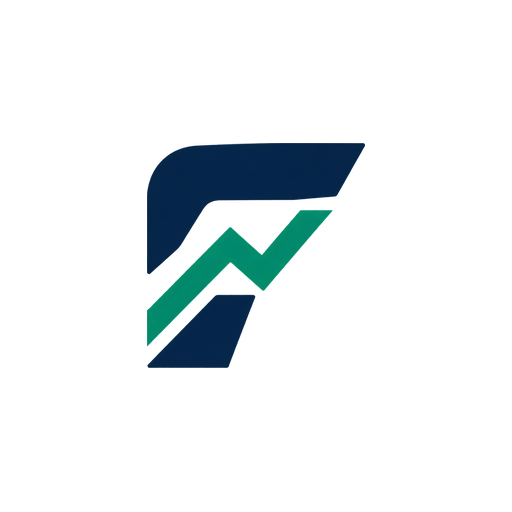
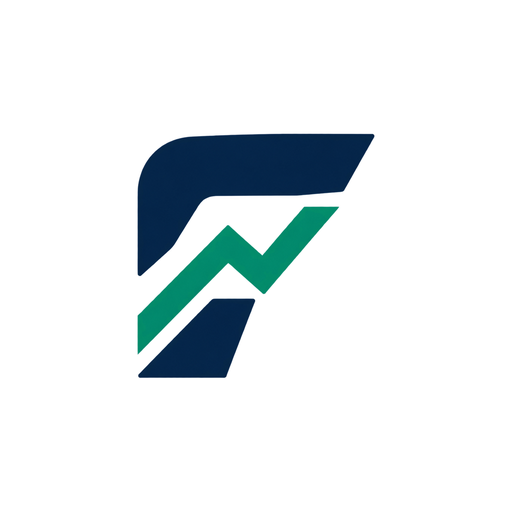
Demo pública: ícono nuevo

diff --git a/docs/demo_panel/acceso.html b/docs/demo_panel/acceso.html
@@ -4,10 +4,10 @@
 <meta charset="utf-8"><meta name="viewport" content="width=device-width, initial-scale=1, maximum-scale=1, user-scalable=no, viewport-fit=cover">
 <title>Finmate — Entrar · Finmate (prueba)</title>
 
-<link rel="icon" type="image/png" sizes="32x32" href="favicon-32.png?v=3">
-<link rel="icon" type="image/png" sizes="48x48" href="favicon-48.png?v=3">
-<link rel="apple-touch-icon" sizes="180x180" href="apple-touch-icon.png?v=3">
-<link rel="manifest" href="manifest.json?v=3">
+<link rel="icon" type="image/png" sizes="32x32" href="favicon-32.png?v=4">
+<link rel="icon" type="image/png" sizes="48x48" href="favicon-48.png?v=4">
+<link rel="apple-touch-icon" sizes="180x180" href="apple-touch-icon.png?v=4">
+<link rel="manifest" href="manifest.json?v=4">
 <meta name="apple-mobile-web-app-title" content="Finmate">
 <meta name="application-name" content="Finmate">
 <meta name="apple-mobile-web-app-capable" content="yes">

diff --git a/docs/demo_panel/ajustes.html b/docs/demo_panel/ajustes.html
@@ -5,10 +5,10 @@
 <meta name="viewport" content="width=device-width, initial-scale=1, maximum-scale=1, user-scalable=no, viewport-fit=cover">
 <title>Finmate — Ajustes y personalidad · Finmate (prueba)</title>
 
-<link rel="icon" type="image/png" sizes="32x32" href="favicon-32.png?v=3">
-<link rel="icon" type="image/png" sizes="48x48" href="favicon-48.png?v=3">
-<link rel="apple-touch-icon" sizes="180x180" href="apple-touch-icon.png?v=3">
-<link rel="manifest" href="manifest.json?v=3">
+<link rel="icon" type="image/png" sizes="32x32" href="favicon-32.png?v=4">
+<link rel="icon" type="image/png" sizes="48x48" href="favicon-48.png?v=4">
+<link rel="apple-touch-icon" sizes="180x180" href="apple-touch-icon.png?v=4">
+<link rel="manifest" href="manifest.json?v=4">
 <meta name="apple-mobile-web-app-title" content="Finmate">
 <meta name="application-name" content="Finmate">
 <meta name="apple-mobile-web-app-capable" content="yes">

diff --git a/docs/demo_panel/inversiones.html b/docs/demo_panel/inversiones.html
@@ -5,10 +5,10 @@
 <meta name="viewport" content="width=device-width, initial-scale=1, maximum-scale=1, user-scalable=no, viewport-fit=cover">
 <title>Finmate — Mis inversiones · Finmate (prueba)</title>
 
-<link rel="icon" type="image/png" sizes="32x32" href="favicon-32.png?v=3">
-<link rel="icon" type="image/png" sizes="48x48" href="favicon-48.png?v=3">
-<link rel="apple-touch-icon" sizes="180x180" href="apple-touch-icon.png?v=3">
-<link rel="manifest" href="manifest.json?v=3">
+<link rel="icon" type="image/png" sizes="32x32" href="favicon-32.png?v=4">
+<link rel="icon" type="image/png" sizes="48x48" href="favicon-48.png?v=4">
+<link rel="apple-touch-icon" sizes="180x180" href="apple-touch-icon.png?v=4">
+<link rel="manifest" href="manifest.json?v=4">
 <meta name="apple-mobile-web-app-title" content="Finmate">
 <meta name="application-name" content="Finmate">
 <meta name="apple-mobile-web-app-capable" content="yes">

diff --git a/docs/demo_panel/gastos.html b/docs/demo_panel/gastos.html
@@ -5,10 +5,10 @@
 <meta name="viewport" content="width=device-width, initial-scale=1, maximum-scale=1, user-scalable=no, viewport-fit=cover">
 <title>Finmate — Mis gastos · Finmate (prueba)</title>
 
-<link rel="icon" type="image/png" sizes="32x32" href="favicon-32.png?v=3">
-<link rel="icon" type="image/png" sizes="48x48" href="favicon-48.png?v=3">
-<link rel="apple-touch-icon" sizes="180x180" href="apple-touch-icon.png?v=3">
-<link rel="manifest" href="manifest.json?v=3">
+<link rel="icon" type="image/png" sizes="32x32" href="favicon-32.png?v=4">
+<link rel="icon" type="image/png" sizes="48x48" href="favicon-48.png?v=4">
+<link rel="apple-touch-icon" sizes="180x180" href="apple-touch-icon.png?v=4">
+<link rel="manifest" href="manifest.json?v=4">
 <meta name="apple-mobile-web-app-title" content="Finmate">
 <meta name="application-name" content="Finmate">
 <meta name="apple-mobile-web-app-capable" content="yes">

diff --git a/docs/demo_panel/feedback.html b/docs/demo_panel/feedback.html
@@ -5,10 +5,10 @@
 <meta name="viewport" content="width=device-width, initial-scale=1, maximum-scale=1, user-scalable=no, viewport-fit=cover">
 <title>Finmate — Feedback · Finmate (prueba)</title>
 
-<link rel="icon" type="image/png" sizes="32x32" href="favicon-32.png?v=3">
-<link rel="icon" type="image/png" sizes="48x48" href="favicon-48.png?v=3">
-<link rel="apple-touch-icon" sizes="180x180" href="apple-touch-icon.png?v=3">
-<link rel="manifest" href="manifest.json?v=3">
+<link rel="icon" type="image/png" sizes="32x32" href="favicon-32.png?v=4">
+<link rel="icon" type="image/png" sizes="48x48" href="favicon-48.png?v=4">
+<link rel="apple-touch-icon" sizes="180x180" href="apple-touch-icon.png?v=4">
+<link rel="manifest" href="manifest.json?v=4">
 <meta name="apple-mobile-web-app-title" content="Finmate">
 <meta name="application-name" content="Finmate">
 <meta name="apple-mobile-web-app-capable" content="yes">

diff --git a/docs/demo_panel/index.html b/docs/demo_panel/index.html
@@ -5,10 +5,10 @@
 <meta name="viewport" content="width=device-width, initial-scale=1, maximum-scale=1, user-scalable=no, viewport-fit=cover">
 <title>Finmate — Resumen · Finmate (prueba)</title>
 
-<link rel="icon" type="image/png" sizes="32x32" href="favicon-32.png?v=3">
-<link rel="icon" type="image/png" sizes="48x48" href="favicon-48.png?v=3">
-<link rel="apple-touch-icon" sizes="180x180" href="apple-touch-icon.png?v=3">
-<link rel="manifest" href="manifest.json?v=3">
+<link rel="icon" type="image/png" sizes="32x32" href="favicon-32.png?v=4">
+<link rel="icon" type="image/png" sizes="48x48" href="favicon-48.png?v=4">
+<link rel="apple-touch-icon" sizes="180x180" href="apple-touch-icon.png?v=4">
+<link rel="manifest" href="manifest.json?v=4">
 <meta name="apple-mobile-web-app-title" content="Finmate">
 <meta name="application-name" content="Finmate">
 <meta name="apple-mobile-web-app-capable" content="yes">
